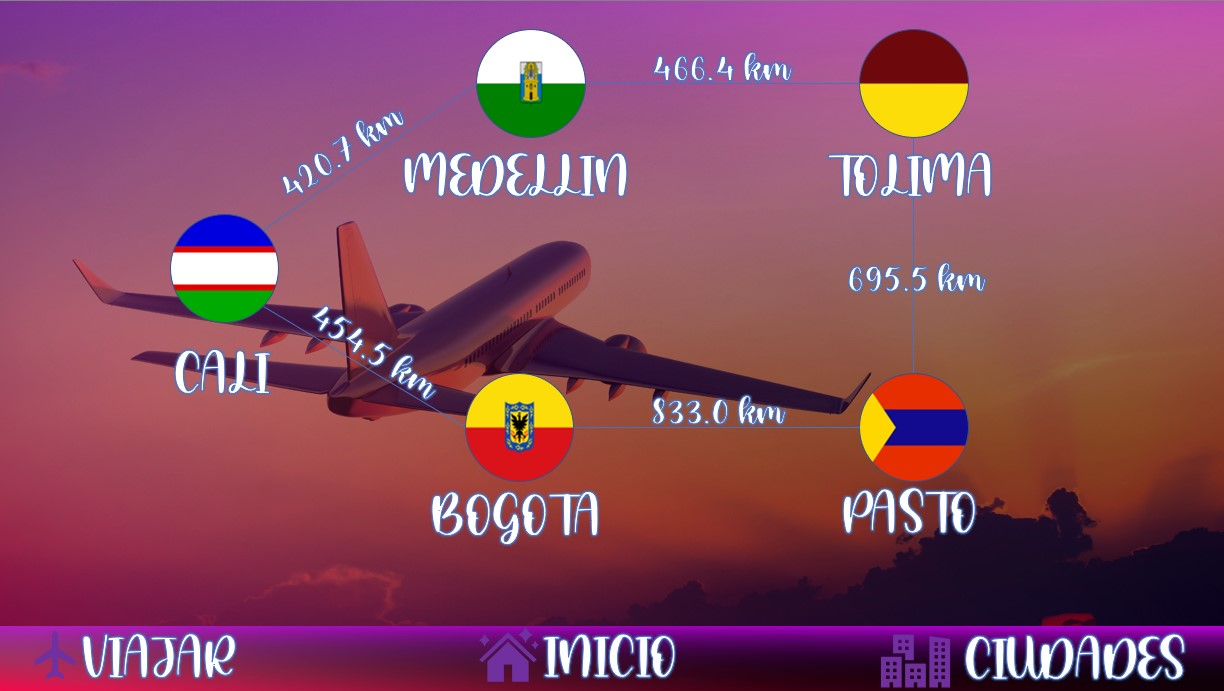
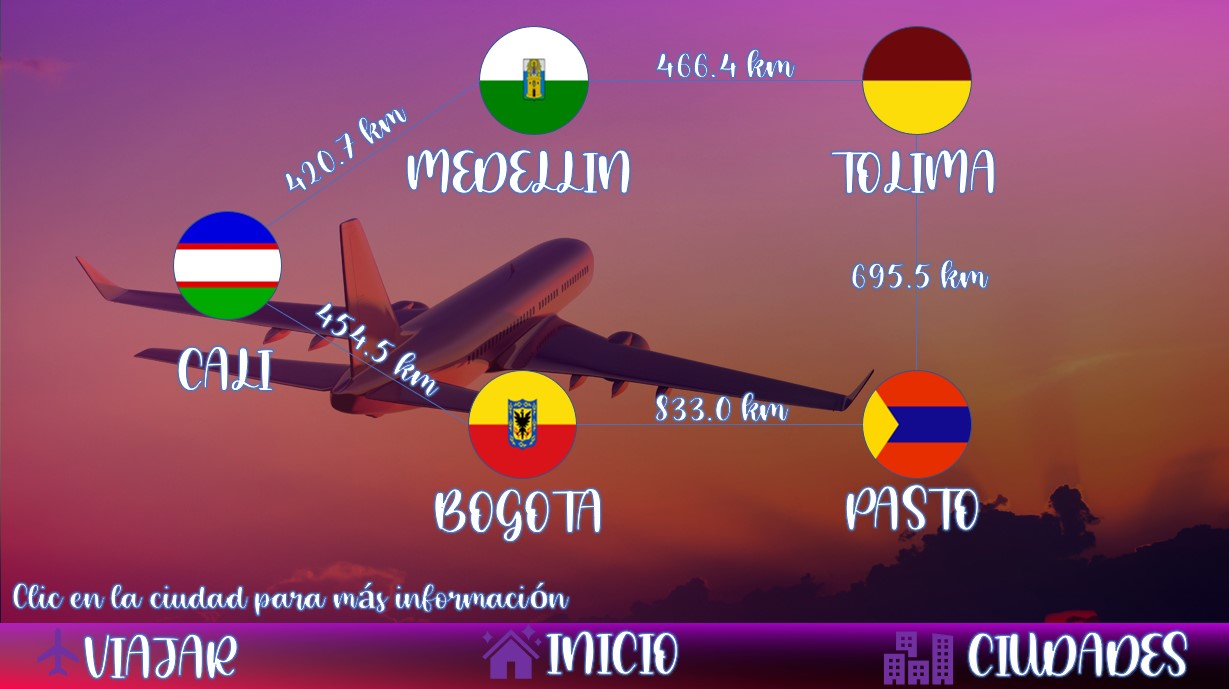
Interfaz Añadida

diff --git a/sr/src/ui/CheVuelosGUI.java b/sr/src/ui/CheVuelosGUI.java
@@ -151,4 +151,39 @@ public class CheVuelosGUI {
         form.showAndWait();
 
     }
+
+    @FXML
+    public void loadInterfazVariasCiudades(ActionEvent event) throws IOException {
+
+        FXMLLoader fxmlLoader = new FXMLLoader(getClass().getResource("InterfazVariasCiudades.fxml"));
+        fxmlLoader.setController(this);
+        Parent root = fxmlLoader.load();
+        Scene scene = new Scene(root, null);
+        Stage form = new Stage();
+        form.initModality(Modality.APPLICATION_MODAL);
+        form.setTitle("Seleccion de ciudades");
+        form.setScene(scene);
+        form.setResizable(false);
+        form.getIcons().add(new Image("/ui/ImagesInterfaces/icono.jpg"));
+        form.showAndWait();
+
+    }
+
+    @FXML
+    public void loadInterfazCreditos(ActionEvent event) throws IOException {
+
+        FXMLLoader fxmlLoader = new FXMLLoader(getClass().getResource("InterfazCreditos.fxml"));
+        fxmlLoader.setController(this);
+        Parent root = fxmlLoader.load();
+        Scene scene = new Scene(root, null);
+        Stage form = new Stage();
+        form.initModality(Modality.APPLICATION_MODAL);
+        form.setTitle("Seleccion de ciudades");
+        form.setScene(scene);
+        form.setResizable(false);
+        form.getIcons().add(new Image("/ui/ImagesInterfaces/icono.jpg"));
+        form.showAndWait();
+
+    }
+
 }

diff --git a/sr/src/ui/Main.java b/sr/src/ui/Main.java
@@ -27,6 +27,7 @@ public class Main extends Application {
 
     @Override
     public void start(Stage primaryStage) throws Exception {
+
         FXMLLoader fxmlLoader = new FXMLLoader(getClass().getResource("InterfazInicial.fxml"));
 
         fxmlLoader.setController(cheVuelosGui);
@@ -38,5 +39,6 @@ public class Main extends Application {
         primaryStage.setTitle("Che Vuelos");
         primaryStage.setResizable(false);
         primaryStage.show();
+
     }
 }
